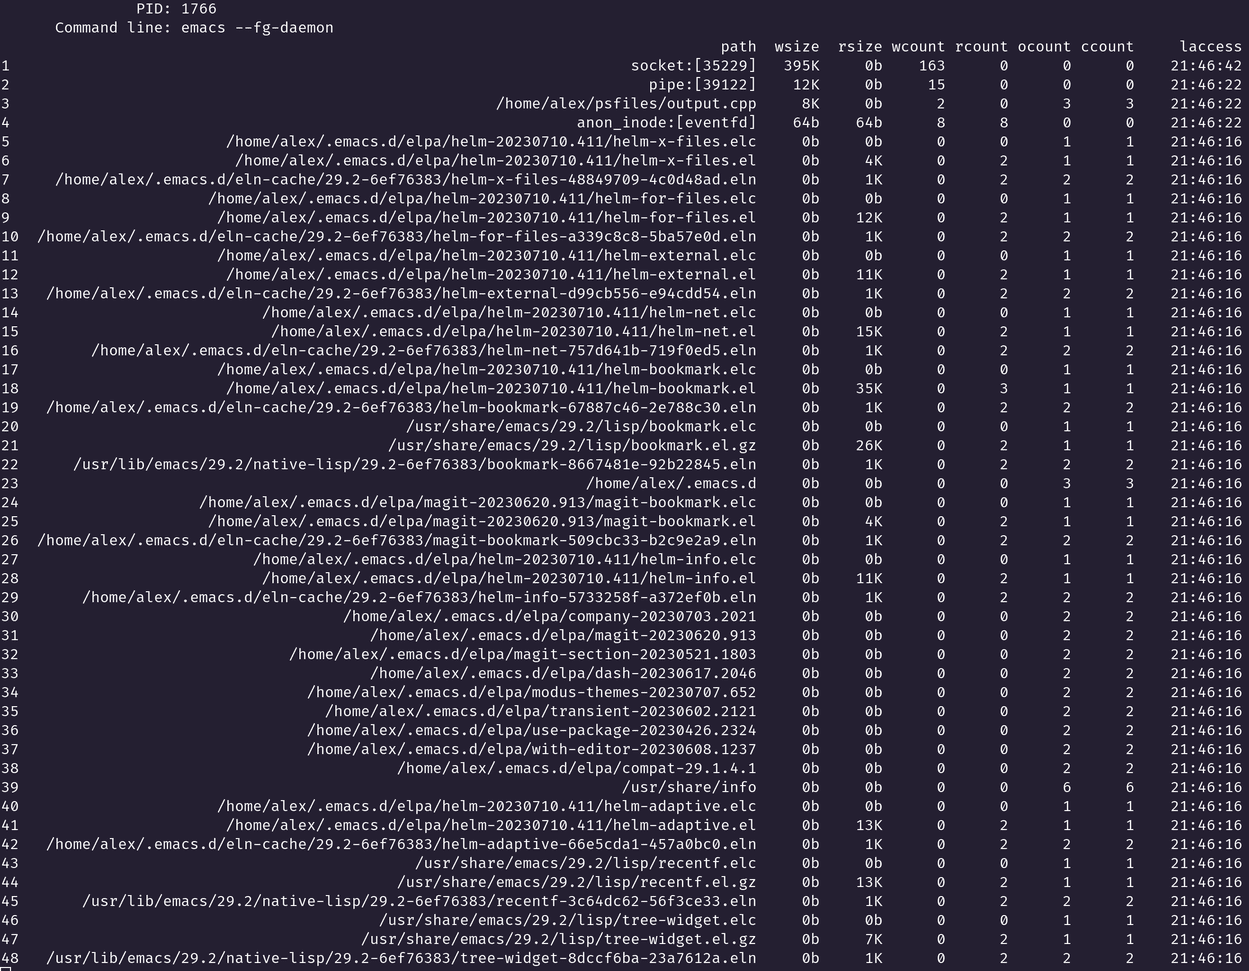
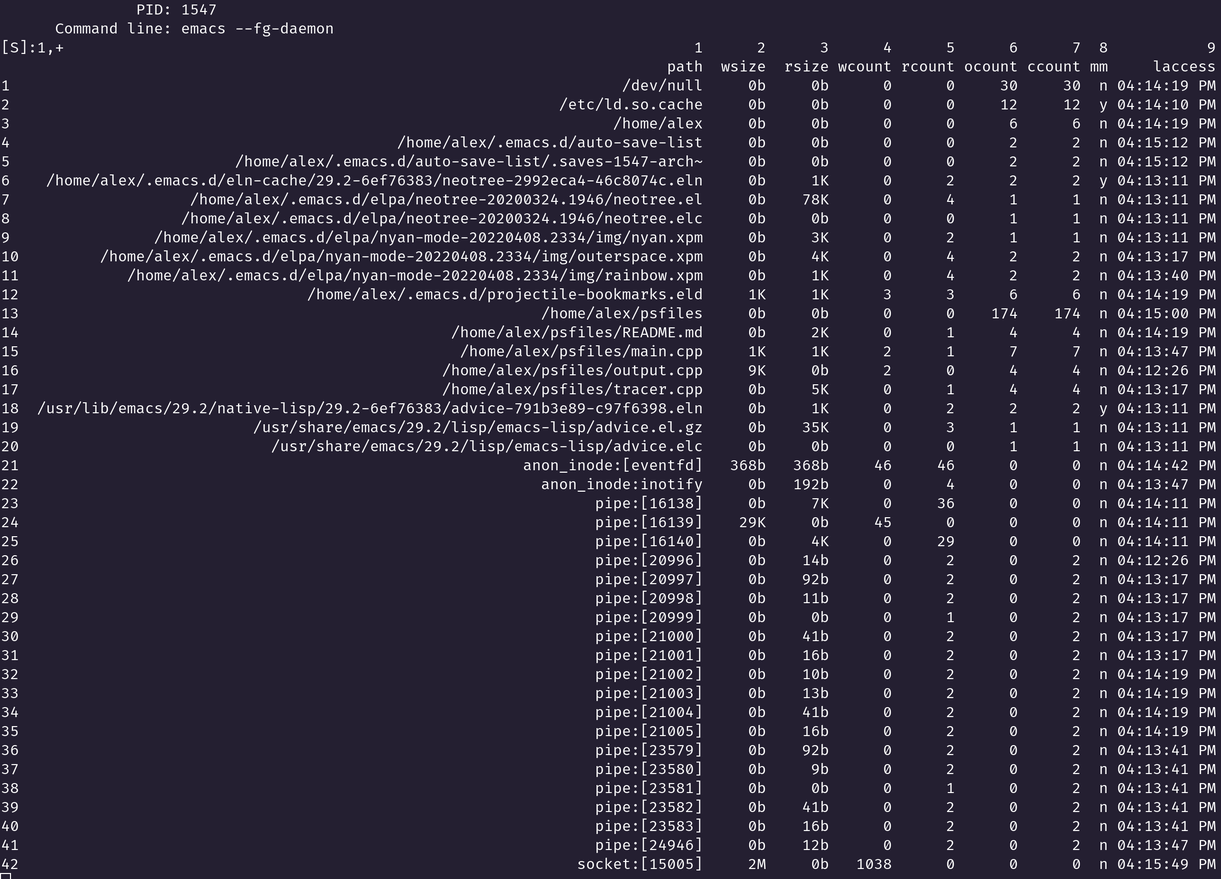
update README

diff --git a/README.md b/README.md
@@ -2,12 +2,11 @@
 
 **Psfiles** is a simple utility to view file I/O activity of Linux processes.
 Only regular *read(v)*, *write(v)*, *open(at)*, *close* syscalls are traced.
-No mmap etc support currently.
+If the file has been memory mapped, this utility will not show the number of bytes read or written.
 
 # Features
 
-* start new process and trace it file I/O activity
-* attach to existing process and trace it
+* start new process or attach to existing and trace it file I/O activity
 * output results to standard output or save results to file
 * custom results sorting
 
@@ -15,22 +14,37 @@ No mmap etc support currently.
 
 * **[--output, -o]:** path to output file. Default: *stdout*.
 * **[--delay, -d]:** interval (seconds) between file list updates. Default: *1*.
-* **[--sort, -s]:** column name for sorting results (append "-" to column name to sorting in descending order).
-Column names: *path wsize rsize wcount rcount ocount ccount laccess*. Default: *path*.
+* **[--sort, -s]:** column name for sorting results (append "-" to column name to sorting in descending order). Default: *path*.
 * **--pid, -p:** attach to existing process with specified *pid*.
-* **--cmdline, -c:** spawn new process with specified *cmdline*. Incompatible with --pid option. It should be the last option.
+* **--cmdline, -c:** spawn new process with specified *cmdline*. Incompatible with **--pid** option. It should be the last option.
 
-# Usage
+# Columns
+* **path** - path to file,
+* **wsize** - write size in bytes,
+* **rsize** - read size in bytes,
+* **wcount** - write/writev syscalls count,
+* **rcount** - read/readv syscalls count,
+* **ocount** - open/openat/creat syscalls count,
+* **ccount** - close syscalls count,
+* **mm** - indicates whether mmap was called for this file,
+* **laccess** - time of the last system call listed above.
 
-Start new process or attach to existing process:
+# Usage examples
 
-* <code>psfiles -d 5 -s wsize- -c emacs /home/user/cpp/main.cpp</code>
-* <code>psfiles -d 30 -s path -o output.txt -p $(pidof emacs)</code>
+Start new process, sort descending by write size, output to file, update output every minute:
+* <code>psfiles -d 60 -s wsize- -o output.txt -c emacs /home/user/cpp/main.cpp</code>
 
-If --output option was not specified, keyboard control is available:
+Attach to existing process, sort by path, output to stdout, update output every second:
+* <code>psfiles -p $(pidof emacs)</code>
 
-* **1 - 8:** sort by specified column (1 - path, 2 - wsize, etc)
+# Control
+
+If **--output** option was not specified, keyboard control is available:
+
+* **1 - 9:** sort by specified column (1 - path, 2 - wsize, etc)
 * **s:** toggle sorting order
+* **n:** show next page (scroll down)
+* **p:** show previous page (scroll up)
 * **q:** quit
 
 # Screenshot
@@ -39,10 +53,9 @@ If --output option was not specified, keyboard control is available:
 
 # How to build?
 
-* clone this repository: <code>git clone https://github.com/mukovnin/psfiles</code>
-* change current directory to cloned repository: <code>cd psfiles</code>
-* create build directory, i.e. <code>mkdir build</code>
-* run <code>cmake . -B build</code>
-* change current directory: <code>cd build</code>
-* run <code>make</code>
+* <code>git clone https://github.com/mukovnin/psfiles</code>
+* <code>cd psfiles</code>
+* <code>cmake . -B build</code>
+* <code>cd build</code>
+* <code>make</code>
 * if needed, run <code>make install</code>
